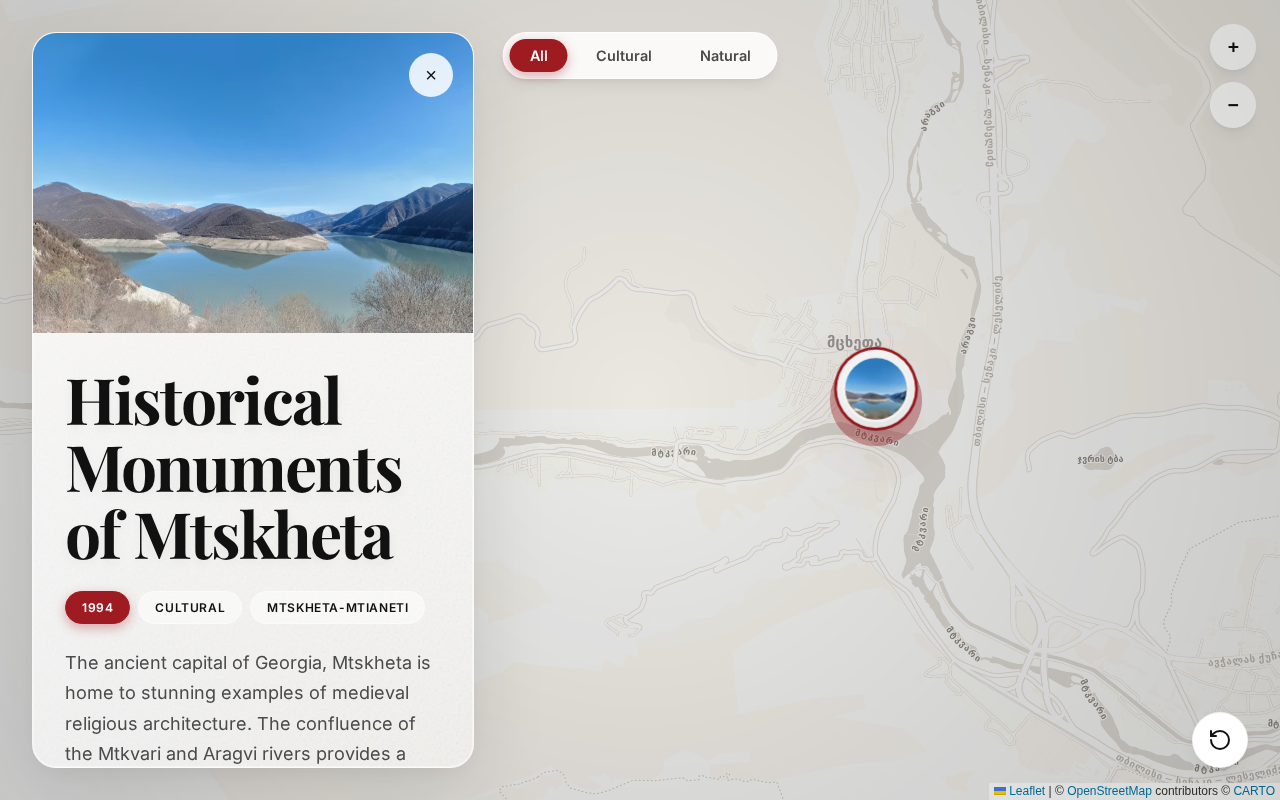
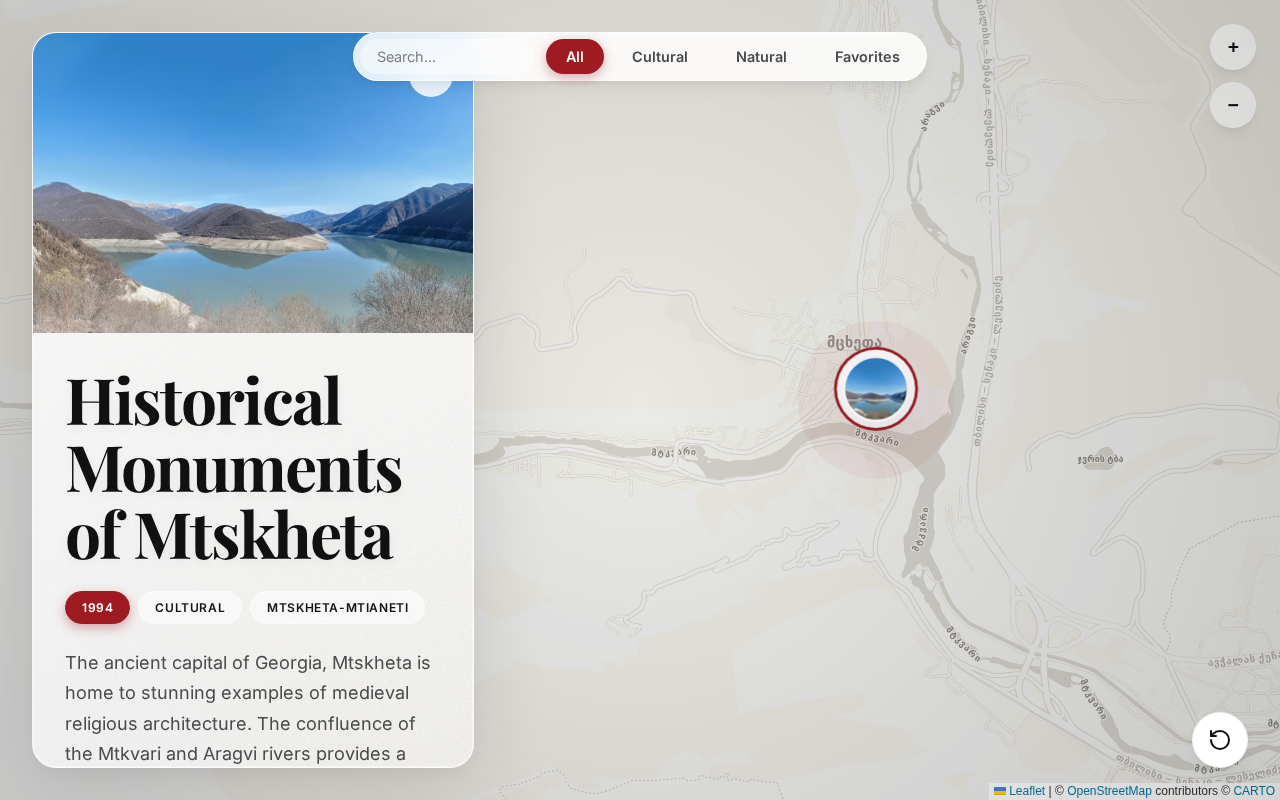
Enhance content, add search, favorites, and gallery
- Add 3 new sites (Vardzia, Uplistsikhe, David Gareji) with rich metadata.
- Convert `image` property to `images` array for all sites.
- Implement scrollable image gallery in `activateMarker`.
- Add search functionality with region/name filtering and safety checks.
- Add favorites functionality using `localStorage`.
- Update UI with new filter buttons and search input.
- Ensure proper mobile responsiveness for gallery and panel interactions.
- Add robust error handling for missing properties in search.

Changed region(s): [[0.25, 0.0312, 0.75, 0.125], [0.6562, 0.5, 0.7188, 0.5625], [0.625, 0.5, 0.6562, 0.5312]]

diff --git a/script.js b/script.js
@@ -3,7 +3,10 @@ const sites = [
         id: 'mtskheta',
         name: 'Historical Monuments of Mtskheta',
         coords: [41.8425, 44.7214],
-        image: 'https://images.unsplash.com/photo-1714314172273-403b590972b7?fm=jpg&q=80&w=2000&auto=format&fit=crop',
+        images: [
+            'https://images.unsplash.com/photo-1714314172273-403b590972b7?fm=jpg&q=80&w=2000&auto=format&fit=crop',
+            'https://images.unsplash.com/photo-1565008576549-57569a49371d?fm=jpg&q=80&w=2000&auto=format&fit=crop'
+        ],
         description: 'The ancient capital of Georgia, Mtskheta is home to stunning examples of medieval religious architecture. The confluence of the Mtkvari and Aragvi rivers provides a dramatic backdrop to these monuments of great cultural and artistic significance.',
         year: 1994,
         category: 'Cultural',
@@ -20,7 +23,10 @@ const sites = [
         id: 'svaneti',
         name: 'Upper Svaneti',
         coords: [43.0456, 42.7289],
-        image: 'https://images.unsplash.com/photo-1714316457727-4ba836ee61ca?fm=jpg&q=80&w=2000&auto=format&fit=crop',
+        images: [
+            'https://images.unsplash.com/photo-1714316457727-4ba836ee61ca?fm=jpg&q=80&w=2000&auto=format&fit=crop',
+            'https://images.unsplash.com/photo-1519681393798-38e43269d492?fm=jpg&q=80&w=2000&auto=format&fit=crop'
+        ],
         description: 'Preserved by its long isolation in the high mountains of the Caucasus, the region of Upper Svaneti is an exceptional example of medieval mountain scenery with its characteristic tower houses. The Svan towers were used both as dwellings and as defense posts against invaders.',
         year: 1996,
         category: 'Cultural',
@@ -37,7 +43,10 @@ const sites = [
         id: 'gelati',
         name: 'Gelati Monastery',
         coords: [42.2925, 42.7714],
-        image: 'https://images.unsplash.com/photo-1712843864936-ee5bdf3b9624?fm=jpg&q=80&w=2000&auto=format&fit=crop',
+        images: [
+            'https://images.unsplash.com/photo-1712843864936-ee5bdf3b9624?fm=jpg&q=80&w=2000&auto=format&fit=crop',
+            'https://images.unsplash.com/photo-1523539693385-e5e891eb4465?fm=jpg&q=80&w=2000&auto=format&fit=crop'
+        ],
         description: 'Founded in a 12th century, the Gelati Monastery is a masterpiece of the Golden Age of medieval Georgia. It was a centre of science and education and the Academy it housed was one of the most important cultural centres in ancient Georgia.',
         year: 1994,
         category: 'Cultural',
@@ -54,7 +63,10 @@ const sites = [
         id: 'colchis',
         name: 'Colchic Rainforests and Wetlands',
         coords: [42.12, 41.70],
-        image: 'https://images.unsplash.com/photo-1715258400290-c095d69ac3e0?fm=jpg&q=80&w=2000&auto=format&fit=crop',
+        images: [
+            'https://images.unsplash.com/photo-1715258400290-c095d69ac3e0?fm=jpg&q=80&w=2000&auto=format&fit=crop',
+            'https://images.unsplash.com/photo-1500382017468-9049fed747ef?fm=jpg&q=80&w=2000&auto=format&fit=crop'
+        ],
         description: 'This site comprises a series of ecosystems including deciduous rainforests and wetlands, which have survived the glacial cycles of the Tertiary period. They are home to a highly diverse flora and fauna, with a large number of endemic and relict species.',
         year: 2021,
         category: 'Natural',
@@ -66,6 +78,66 @@ const sites = [
         },
         bestTime: 'Spring and Autumn (Migration seasons)',
         tips: 'Take a boat tour on Paliastomi Lake for the best birdwatching experience.'
+    },
+    {
+        id: 'vardzia',
+        name: 'Vardzia Cave Monastery',
+        coords: [41.3813, 43.2843],
+        images: [
+            'https://images.unsplash.com/photo-1714316457727-4ba836ee61ca?fm=jpg&q=80&w=2000&auto=format&fit=crop', // Reused Svaneti
+            'https://images.unsplash.com/photo-1565008576549-57569a49371d?fm=jpg&q=80&w=2000&auto=format&fit=crop'
+        ],
+        description: 'Vardzia is a spectacular cave monastery complex in southern Georgia, excavated from the slopes of the Erusheti Mountain on the left bank of the Kura River. Built in the late 12th century, it was a sanctuary during Mongol invasions.',
+        year: 2007,
+        category: 'Cultural',
+        region: 'Samtskhe-Javakheti',
+        googleMapsUrl: 'https://www.google.com/maps/search/?api=1&query=41.3813,43.2843',
+        visitorInfo: {
+            hours: '10:00 - 19:00',
+            cost: 'Adults ~15 GEL'
+        },
+        bestTime: 'Spring or early Autumn',
+        tips: 'Wear comfortable shoes as there are many steps and uneven surfaces.'
+    },
+    {
+        id: 'uplistsikhe',
+        name: 'Uplistsikhe Cave Town',
+        coords: [41.9673, 44.2078],
+        images: [
+            'https://images.unsplash.com/photo-1714314172273-403b590972b7?fm=jpg&q=80&w=2000&auto=format&fit=crop', // Reused Mtskheta
+            'https://images.unsplash.com/photo-1572979245229-87389c937190?fm=jpg&q=80&w=2000&auto=format&fit=crop'
+        ],
+        description: 'Uplistsikhe is an ancient rock-hewn town in eastern Georgia. Built on a high rocky left bank of the Mtkvari River, it contains various structures dating from the Early Iron Age to the Late Middle Ages, and is notable for the unique combination of various styles of rock-cut cultures.',
+        year: 2007,
+        category: 'Cultural',
+        region: 'Shida Kartli',
+        googleMapsUrl: 'https://www.google.com/maps/search/?api=1&query=41.9673,44.2078',
+        visitorInfo: {
+            hours: '10:00 - 18:00',
+            cost: 'Adults ~15 GEL'
+        },
+        bestTime: 'April to October',
+        tips: 'Visit early in the morning to avoid the heat and crowds.'
+    },
+    {
+        id: 'david_gareji',
+        name: 'David Gareji Monasteries',
+        coords: [41.4475, 45.3764],
+        images: [
+            'https://images.unsplash.com/photo-1712843864936-ee5bdf3b9624?fm=jpg&q=80&w=2000&auto=format&fit=crop', // Reused Gelati
+            'https://images.unsplash.com/photo-1596306499300-0b7b1689b9e6?fm=jpg&q=80&w=2000&auto=format&fit=crop'
+        ],
+        description: 'David Gareji is a rock-hewn Georgian Orthodox monastery complex located in the Kakheti region of Eastern Georgia, on the half-desert slopes of Mount Gareja. The complex includes hundreds of cells, churches, chapels, refectories and living quarters hollowed out of the rock face.',
+        year: 2007,
+        category: 'Cultural',
+        region: 'Kakheti',
+        googleMapsUrl: 'https://www.google.com/maps/search/?api=1&query=41.4475,45.3764',
+        visitorInfo: {
+            hours: 'Daylight hours',
+            cost: 'Free'
+        },
+        bestTime: 'Spring (when the desert blooms)',
+        tips: 'Bring plenty of water and sun protection as it gets very hot.'
     }
 ];
 
@@ -138,6 +210,27 @@ document.addEventListener('DOMContentLoaded', () => {
         return url;
     };
 
+    // --- Favorites Logic ---
+    const getFavorites = () => {
+        try {
+            return JSON.parse(localStorage.getItem('georgianGemsFavorites') || '[]');
+        } catch (e) {
+            return [];
+        }
+    };
+
+    const toggleFavorite = (siteId) => {
+        const favs = getFavorites();
+        const index = favs.indexOf(siteId);
+        if (index > -1) {
+            favs.splice(index, 1);
+        } else {
+            favs.push(siteId);
+        }
+        localStorage.setItem('georgianGemsFavorites', JSON.stringify(favs));
+        return index === -1; // returns true if added, false if removed
+    };
+
     const centerMapOnSite = (site) => {
         const isMobile = window.innerWidth < 768;
         let targetZoom = 14; // Slightly closer zoom
@@ -168,8 +261,6 @@ document.addEventListener('DOMContentLoaded', () => {
         centerMapOnSite(site);
 
         // Inject content with wrapper
-        const fullUrl = getResizedImage(site.image, 800);
-
         // Securely build DOM elements to prevent XSS
         infoContent.innerHTML = ''; // Clear previous content
 
@@ -177,15 +268,17 @@ document.addEventListener('DOMContentLoaded', () => {
         wrapper.className = 'content-wrapper';
 
         const imageContainer = document.createElement('div');
-        imageContainer.className = 'image-container';
+        imageContainer.className = 'image-container gallery-container';
 
-        const img = document.createElement('img');
-        img.src = fullUrl;
-        img.alt = site.name || 'Site image';
-        img.loading = 'lazy';
-        img.className = 'fade-in';
-        img.onerror = function() { this.style.display = 'none'; };
-        imageContainer.appendChild(img);
+        site.images.forEach((url, idx) => {
+            const img = document.createElement('img');
+            img.src = getResizedImage(url, 800);
+            img.alt = `${site.name} - Image ${idx + 1}`;
+            img.loading = 'lazy';
+            img.className = 'gallery-item fade-in';
+            img.onerror = function() { this.style.display = 'none'; };
+            imageContainer.appendChild(img);
+        });
 
         const textContainer = document.createElement('div');
         textContainer.className = 'text-container';
@@ -253,6 +346,27 @@ document.addEventListener('DOMContentLoaded', () => {
             actionContainer.appendChild(btn);
         }
 
+        // Favorites Button
+        const isFav = getFavorites().includes(site.id);
+        const favBtn = document.createElement('button');
+        favBtn.className = `btn-action btn-secondary fav-btn`;
+        favBtn.innerHTML = isFav ? '♥ Saved' : '♡ Save to Favorites';
+        if (isFav) favBtn.style.color = 'var(--color-accent)';
+
+        favBtn.onclick = () => {
+            const added = toggleFavorite(site.id);
+            favBtn.innerHTML = added ? '♥ Saved' : '♡ Save to Favorites';
+            favBtn.style.color = added ? 'var(--color-accent)' : 'var(--color-text-primary)';
+
+            // Refresh filter if in favorites view
+            const activeFilterBtn = document.querySelector('.filter-btn.active');
+            if (activeFilterBtn && activeFilterBtn.dataset.category === 'favorites' && !added) {
+                closePanel();
+                filterSites('favorites');
+            }
+        };
+        actionContainer.appendChild(favBtn);
+
         // Share Button
         const shareBtn = document.createElement('button');
         shareBtn.className = 'btn-action btn-secondary share-btn';
@@ -306,7 +420,7 @@ document.addEventListener('DOMContentLoaded', () => {
     };
 
     sites.forEach((site, index) => {
-        const thumbUrl = getResizedImage(site.image, 100);
+        const thumbUrl = getResizedImage(site.images[0], 100);
         // Security: Escape HTML entities to prevent injection in aria-label
         const safeName = escapeHtml(site.name);
 
@@ -511,8 +625,12 @@ document.addEventListener('DOMContentLoaded', () => {
 
     // --- Filter Logic ---
     const filterBtns = document.querySelectorAll('.filter-btn');
+    const searchInput = document.getElementById('search-input');
 
     const filterSites = (category) => {
+        // Clear search input when filtering
+        if (searchInput) searchInput.value = '';
+
         // Update active button state
         filterBtns.forEach(btn => {
             const isSelected = btn.dataset.category === category;
@@ -520,9 +638,20 @@ document.addEventListener('DOMContentLoaded', () => {
             btn.setAttribute('aria-pressed', isSelected);
         });
 
+        const favs = getFavorites();
         markers.forEach(marker => {
             const site = marker.site;
-            if (category === 'all' || site.category === category) {
+            let visible = false;
+
+            if (category === 'all') {
+                visible = true;
+            } else if (category === 'favorites') {
+                visible = favs.includes(site.id);
+            } else {
+                visible = site.category === category;
+            }
+
+            if (visible) {
                 if (!map.hasLayer(marker)) {
                     marker.addTo(map);
                 }
@@ -534,7 +663,7 @@ document.addEventListener('DOMContentLoaded', () => {
         });
 
         // Close panel if the active marker is filtered out
-        if (activeMarker && category !== 'all' && activeMarker.site.category !== category) {
+        if (activeMarker && !map.hasLayer(activeMarker)) {
             closePanel();
         }
     };
@@ -544,4 +673,43 @@ document.addEventListener('DOMContentLoaded', () => {
             filterSites(btn.dataset.category);
         });
     });
+
+    // --- Search Logic ---
+    if (searchInput) {
+        searchInput.addEventListener('input', (e) => {
+            const query = e.target.value.trim().toLowerCase();
+
+            // Remove active state from filter buttons during search
+            filterBtns.forEach(btn => {
+                btn.classList.remove('active');
+                btn.setAttribute('aria-pressed', 'false');
+            });
+
+            if (query === '') {
+                const allBtn = document.querySelector('.filter-btn[data-category="all"]');
+                if (allBtn) {
+                    allBtn.classList.add('active');
+                    allBtn.setAttribute('aria-pressed', 'true');
+                }
+            }
+
+            markers.forEach(marker => {
+                const site = marker.site;
+                const region = site.region ? site.region.toLowerCase() : '';
+                const matches = site.name.toLowerCase().includes(query) ||
+                                region.includes(query);
+
+                if (matches) {
+                    if (!map.hasLayer(marker)) marker.addTo(map);
+                } else {
+                    if (map.hasLayer(marker)) map.removeLayer(marker);
+                }
+            });
+
+            // If active marker is filtered out, close panel
+            if (activeMarker && !map.hasLayer(activeMarker)) {
+                closePanel();
+            }
+        });
+    }
 });

diff --git a/style.css b/style.css
@@ -890,3 +890,70 @@ body::after {
         padding-bottom: calc(100px + env(safe-area-inset-bottom));
     }
 }
+
+/* --- Gallery Styles --- */
+
+.gallery-container {
+    display: flex;
+    overflow-x: auto !important;
+    overflow-y: hidden;
+    scroll-snap-type: x mandatory;
+    -webkit-overflow-scrolling: touch;
+    scrollbar-width: none; /* Firefox */
+    -ms-overflow-style: none; /* IE/Edge */
+}
+
+.gallery-container::-webkit-scrollbar {
+    display: none; /* Chrome/Safari */
+}
+
+.gallery-item {
+    flex-shrink: 0; /* Prevent shrinking */
+    width: 100%;    /* Each image takes full width */
+    height: 100%;
+    object-fit: cover;
+    scroll-snap-align: center;
+}
+
+/* --- Search Control --- */
+
+#search-container {
+    display: flex;
+    align-items: center;
+    margin-right: 4px;
+}
+
+#search-input {
+    background: rgba(255, 255, 255, 0.4);
+    border: 1px solid transparent;
+    padding: 8px 16px;
+    font-family: var(--font-primary);
+    font-size: 0.9rem;
+    color: var(--color-text-primary);
+    width: 140px;
+    transition: all 0.3s ease;
+    outline: none;
+    border-radius: 30px; /* Match buttons */
+}
+
+#search-input:focus {
+    width: 200px;
+    background: #fff;
+    box-shadow: var(--shadow-sm);
+    border-color: rgba(0,0,0,0.1);
+}
+
+#search-input::placeholder {
+    color: var(--color-text-secondary);
+    opacity: 0.7;
+}
+
+@media (max-width: 768px) {
+    #search-input {
+        width: 100px;
+        padding: 8px 12px;
+    }
+    #search-input:focus {
+        width: 140px;
+    }
+}

diff --git a/index.html b/index.html
@@ -25,9 +25,13 @@
     <!-- Cinematic Intro Overlay -->
     <!-- Filter Controls -->
     <div id="filter-control" class="filter-control">
+        <div id="search-container">
+            <input type="text" id="search-input" placeholder="Search..." aria-label="Search sites">
+        </div>
         <button class="filter-btn active" data-category="all" aria-pressed="true">All</button>
         <button class="filter-btn" data-category="Cultural" aria-pressed="false">Cultural</button>
         <button class="filter-btn" data-category="Natural" aria-pressed="false">Natural</button>
+        <button class="filter-btn" data-category="favorites" aria-pressed="false">Favorites</button>
     </div>
 
     <!-- Cinematic Intro Overlay -->
